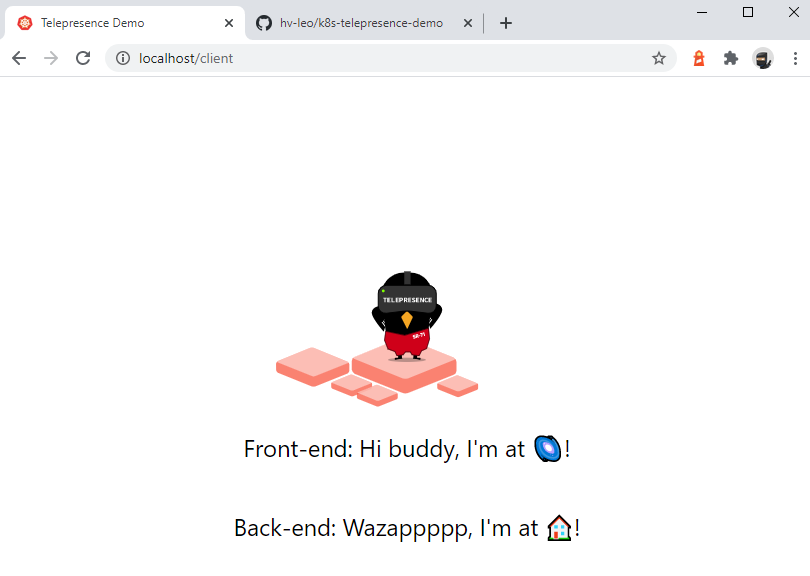
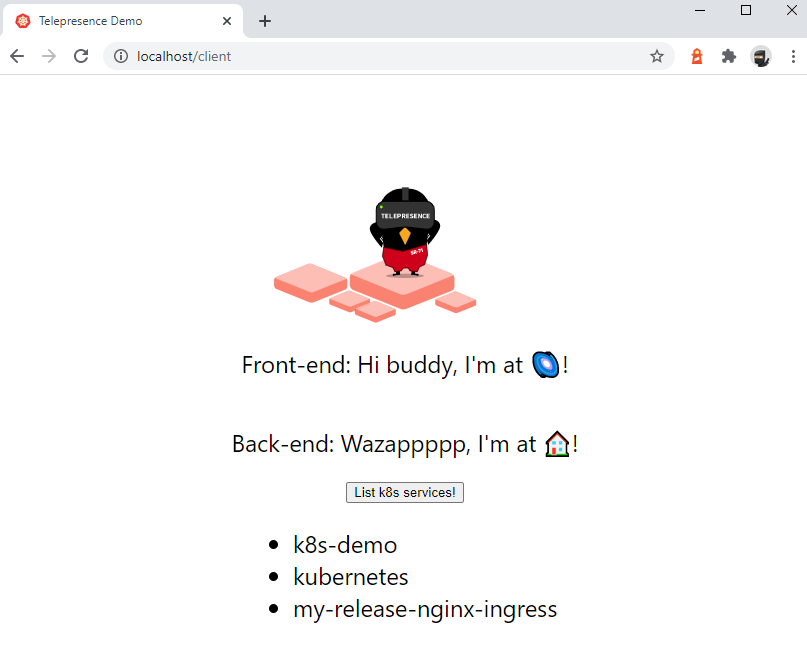
Kubernetes Client

Changed region(s): [[0.2788, 0.2812, 0.7125, 0.9688], [0.0, 0.0, 1.0, 0.125]]

diff --git a/client/src/App.js b/client/src/App.js
@@ -10,12 +10,22 @@ const App = () => {
         .then(response => setMessage(response.data));
   }, []);
 
+  const [services, setServices] = useState( );
+  const listServices = ( ) => {
+    axios.get('http://localhost/server/services')
+        .then(response => setServices(response.data));
+  }
+
   return (
     <div className="App">
       <header className="App-header">
         <img src={logo} className="App-logo" alt="logo" />
         <p> Front-end: Hi buddy, I'm at 🌌! </p>
         <p> Back-end: {message} </p>
+        <button type="button" onClick={listServices}>
+            List k8s services!
+        </button>
+        <ul dangerouslySetInnerHTML={{__html: services}} />
       </header>
     </div>
   );

diff --git a/server/src/main/java/com/example/springboot/ServiceController.java b/server/src/main/java/com/example/springboot/ServiceController.java
@@ -1,0 +1,29 @@
+package com.example.springboot;
+
+import io.fabric8.kubernetes.api.model.Service;
+import io.fabric8.kubernetes.client.Config;
+import io.fabric8.kubernetes.client.ConfigBuilder;
+import io.fabric8.kubernetes.client.DefaultKubernetesClient;
+import io.fabric8.kubernetes.client.KubernetesClient;
+import org.springframework.http.MediaType;
+import org.springframework.web.bind.annotation.RequestMapping;
+import org.springframework.web.bind.annotation.RestController;
+
+import java.util.List;
+
+@RestController
+public class ServiceController {
+  private static final Config config = new ConfigBuilder().build();
+  private static final KubernetesClient client = new DefaultKubernetesClient( config );
+
+  @RequestMapping( value = "/services", produces = MediaType.TEXT_HTML_VALUE )
+  public String index() {
+    List serviceList = client.services().list().getItems();
+    String htmlReponse = "";
+    for ( Object svc : serviceList ) {
+      String svcName =  ((Service) svc).getMetadata().getName();
+      htmlReponse += "<li style=\"text-align: left;\">" + svcName + "</li>";
+    }
+    return htmlReponse;
+  }
+}

diff --git a/README.md b/README.md
@@ -15,8 +15,9 @@ You need to have [Docker](https://docs.docker.com), [Kubectl](https://kubernetes
     - Go to the server folder: ```$ cd server```
     - Build a local docker image: ```$ docker build -t k8s-demo-server-img .```
     - **Swap** the **remote deployment** with the **local Docker image**: ```$ telepresence --swap-deployment k8s-demo:server --expose 8000:8002 --docker-run --rm -it -v $(pwd):/usr/src/app k8s-demo-server-img```
-    - If we want to **remote debug** the back-end: ```$ telepresence --swap-deployment k8s-demo:server --expose 8000:8002 --docker-run --rm -it -p 5005:5005 -e JAVA_TOOL_OPTIONS=-agentlib:jdwp=transport=dt_socket,address=5005,server=y,suspend=y -v $(pwd):/usr/src/app k8s-demo-server-img```
-
+    - If you want to **remote debug** the back-end: ```$ telepresence --swap-deployment k8s-demo:server --expose 8000:8002 --docker-run --rm -it -p 5005:5005 -e JAVA_TOOL_OPTIONS=-agentlib:jdwp=transport=dt_socket,address=5005,server=y,suspend=y -v $(pwd):/usr/src/app k8s-demo-server-img```
+    - In case you are **using a Kubernetes client**: ```telepresence --mount /tmp/known --swap-deployment k8s-demo:server --expose 8000:8002 --docker-run --rm -it -v $(pwd):/usr/src/app -v=/tmp/known/var/run/secrets:/var/run/secrets k8s-demo-server-img```
+    - **All in one!**: ```telepresence --mount /tmp/known --swap-deployment k8s-demo:server --expose 8000:8002 --docker-run --rm -it -p 5005:5005 -e JAVA_TOOL_OPTIONS=-agentlib:jdwp=transport=dt_socket,address=5005,server=y,suspend=y -v $(pwd):/usr/src/app -v=/tmp/known/var/run/secrets:/var/run/secrets k8s-demo-server-img```
 ### Project Structure
 <pre>
 |-- client/
@@ -49,7 +50,9 @@ You need to have [Docker](https://docs.docker.com), [Kubectl](https://kubernetes
 ### Demo
 To access the application: 
 - **Front-end**: ```http://<hostname>/client```
-- **Backend**: ```http://<hostname>/server```
+- **Backend**: 
+    - ```http://<hostname>/server```
+    - ```http://<hostname>/server/services```
 
 ![K8s Demo Web App](https://github.com/hv-leo/k8s-telepresence-demo/blob/master/docs/k8s-demo-app.png "K8s Demo Web App")
 
